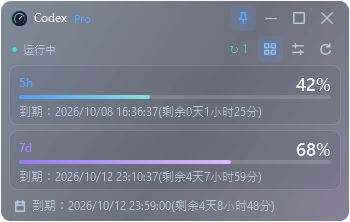
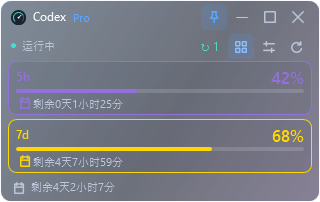
Codex 额度 稳定连接状态并简化剩余时间展示

diff --git a/MainWindow.xaml b/MainWindow.xaml
@@ -3,7 +3,7 @@
         xmlns:x="http://schemas.microsoft.com/winfx/2006/xaml"
         xmlns:shell="clr-namespace:System.Windows.Shell;assembly=PresentationFramework"
         x:Name="WidgetWindow" Title="{Binding Text.WindowTitle}" Icon="pack://application:,,,/CodexQuotaWidget;component/assets/app.ico"
-        Width="350" SizeToContent="Height" MinWidth="320" MinHeight="160"
+        Width="320" SizeToContent="Height" MinWidth="300" MinHeight="145"
         Topmost="True" WindowStyle="None" ResizeMode="CanResize" ShowInTaskbar="True"
         Background="Transparent" UseLayoutRounding="True"
         SourceInitialized="WindowSourceInitialized" StateChanged="WindowStateChanged"
@@ -12,8 +12,8 @@
         <shell:WindowChrome CaptionHeight="34" ResizeBorderThickness="5" GlassFrameThickness="-1" CornerRadius="10" UseAeroCaptionButtons="False" />
     </shell:WindowChrome.WindowChrome>
     <Border x:Name="GlassSurface" Background="{StaticResource OpaqueGlassBrush}" BorderBrush="{StaticResource LineBrush}" BorderThickness="1" CornerRadius="10">
-        <Grid Margin="8,0,8,6">
-            <Grid.RowDefinitions><RowDefinition Height="34" /><RowDefinition Height="30" /><RowDefinition Height="*" /></Grid.RowDefinitions>
+        <Grid Margin="7,0,7,5">
+            <Grid.RowDefinitions><RowDefinition Height="32" /><RowDefinition Height="28" /><RowDefinition Height="*" /></Grid.RowDefinitions>
             <!-- Native chrome owns title dragging, double-click maximize and resize hit testing. -->
             <Grid Grid.Row="0">
                 <Grid.ColumnDefinitions><ColumnDefinition Width="*" /><ColumnDefinition Width="Auto" /></Grid.ColumnDefinitions>
@@ -50,24 +50,24 @@
             <ScrollViewer Grid.Row="2" HorizontalScrollBarVisibility="Disabled" VerticalScrollBarVisibility="Auto" Background="Transparent">
                 <Grid>
                     <StackPanel x:Name="DashboardContent">
-                        <Border Padding="9,5" Margin="0,0,0,5" CornerRadius="8" BorderBrush="{StaticResource LineBrush}" BorderThickness="1" Background="#12132337" Visibility="{Binding FiveHourVisibility}">
+                        <Border Padding="7,4" Margin="0,0,0,4" CornerRadius="8" BorderBrush="{Binding FiveHourToneBrush}" BorderThickness="1" Background="#12132337" Visibility="{Binding FiveHourVisibility}">
                             <StackPanel>
-                                <Grid Height="22"><TextBlock Text="5h" Foreground="{StaticResource AccentBrush}" FontWeight="SemiBold" VerticalAlignment="Center" /><TextBlock Text="{Binding FiveHourPercentText}" HorizontalAlignment="Right" FontSize="18" FontWeight="SemiBold" /></Grid>
-                                <ProgressBar Style="{StaticResource QuotaProgress}" Margin="0,2,0,5" Maximum="100" Value="{Binding FiveHourPercent, Mode=OneWay}" Foreground="{StaticResource HourlyGradient}" />
-                                <TextBlock Text="{Binding FiveHourResetText}" FontSize="12" TextWrapping="Wrap" Foreground="{StaticResource SecondaryTextBrush}" ToolTip="{Binding FiveHourResetText}" />
+                                <Grid Height="21"><TextBlock Text="5h" Foreground="{Binding FiveHourToneBrush}" FontWeight="SemiBold" VerticalAlignment="Center" /><TextBlock Text="{Binding FiveHourPercentText}" Foreground="{Binding FiveHourToneBrush}" HorizontalAlignment="Right" FontSize="17" FontWeight="SemiBold" /></Grid>
+                                <ProgressBar Style="{StaticResource QuotaProgress}" Margin="0,2,0,4" Maximum="100" Value="{Binding FiveHourPercent, Mode=OneWay}" Foreground="{Binding FiveHourToneBrush}" />
+                                <Grid ToolTip="{Binding FiveHourResetTooltip}"><Grid.ColumnDefinitions><ColumnDefinition Width="17" /><ColumnDefinition Width="*" /></Grid.ColumnDefinitions><Path Style="{StaticResource LineIcon}" Stroke="{Binding FiveHourToneBrush}" Data="M5,5 H19 V20 H5 Z M8,3 V7 M16,3 V7 M5,10 H19" /><TextBlock Grid.Column="1" Text="{Binding FiveHourResetText}" AutomationProperties.AutomationId="FiveHourExpiry" AutomationProperties.Name="{Binding FiveHourResetText}" AutomationProperties.HelpText="{Binding FiveHourResetTooltip}" FontSize="11" TextWrapping="Wrap" Foreground="{StaticResource SecondaryTextBrush}" /></Grid>
                             </StackPanel>
                         </Border>
-                        <Border Padding="9,5" Margin="0,0,0,5" CornerRadius="8" BorderBrush="{StaticResource LineBrush}" BorderThickness="1" Background="#141E1938" Visibility="{Binding SevenDayVisibility}">
+                        <Border Padding="7,4" Margin="0,0,0,4" CornerRadius="8" BorderBrush="{Binding SevenDayToneBrush}" BorderThickness="1" Background="#141E1938" Visibility="{Binding SevenDayVisibility}">
                             <StackPanel>
-                                <Grid Height="22"><TextBlock Text="7d" Foreground="{StaticResource WeeklyBrush}" FontWeight="SemiBold" VerticalAlignment="Center" /><TextBlock Text="{Binding SevenDayPercentText}" HorizontalAlignment="Right" FontSize="18" FontWeight="SemiBold" /></Grid>
-                                <ProgressBar Style="{StaticResource QuotaProgress}" Margin="0,2,0,5" Maximum="100" Value="{Binding SevenDayPercent, Mode=OneWay}" Foreground="{StaticResource WeeklyGradient}" />
-                                <TextBlock Text="{Binding SevenDayResetText}" FontSize="12" TextWrapping="Wrap" Foreground="{StaticResource SecondaryTextBrush}" ToolTip="{Binding SevenDayResetText}" />
+                                <Grid Height="21"><TextBlock Text="7d" Foreground="{Binding SevenDayToneBrush}" FontWeight="SemiBold" VerticalAlignment="Center" /><TextBlock Text="{Binding SevenDayPercentText}" Foreground="{Binding SevenDayToneBrush}" HorizontalAlignment="Right" FontSize="17" FontWeight="SemiBold" /></Grid>
+                                <ProgressBar Style="{StaticResource QuotaProgress}" Margin="0,2,0,4" Maximum="100" Value="{Binding SevenDayPercent, Mode=OneWay}" Foreground="{Binding SevenDayToneBrush}" />
+                                <Grid ToolTip="{Binding SevenDayResetTooltip}"><Grid.ColumnDefinitions><ColumnDefinition Width="17" /><ColumnDefinition Width="*" /></Grid.ColumnDefinitions><Path Style="{StaticResource LineIcon}" Stroke="{Binding SevenDayToneBrush}" Data="M5,5 H19 V20 H5 Z M8,3 V7 M16,3 V7 M5,10 H19" /><TextBlock Grid.Column="1" Text="{Binding SevenDayResetText}" AutomationProperties.AutomationId="SevenDayExpiry" AutomationProperties.Name="{Binding SevenDayResetText}" AutomationProperties.HelpText="{Binding SevenDayResetTooltip}" FontSize="11" TextWrapping="Wrap" Foreground="{StaticResource SecondaryTextBrush}" /></Grid>
                             </StackPanel>
                         </Border>
                         <Grid Margin="3,3,3,2" ToolTip="{Binding StatusText}">
                             <Grid.ColumnDefinitions><ColumnDefinition Width="20" /><ColumnDefinition Width="*" /></Grid.ColumnDefinitions>
                             <Path Style="{StaticResource LineIcon}" Stroke="{StaticResource SecondaryTextBrush}" Data="M5,5 H19 V20 H5 Z M8,3 V7 M16,3 V7 M5,10 H19" VerticalAlignment="Top" Margin="0,2,4,0" />
-                            <TextBlock Grid.Column="1" Text="{Binding MembershipText}" TextWrapping="Wrap" FontSize="12" Foreground="{StaticResource SecondaryTextBrush}" ToolTip="{Binding MembershipText}" />
+                            <TextBlock Grid.Column="1" Text="{Binding MembershipText}" AutomationProperties.AutomationId="MembershipExpiry" AutomationProperties.HelpText="{Binding MembershipTooltipText}" TextWrapping="Wrap" FontSize="11" Foreground="{StaticResource SecondaryTextBrush}" ToolTip="{Binding MembershipTooltipText}" />
                         </Grid>
                     </StackPanel>
                     <Grid x:Name="SettingsContent" Visibility="Collapsed" Margin="4,6,4,4">

diff --git a/ViewModels/QuotaViewModel.cs b/ViewModels/QuotaViewModel.cs
@@ -24,6 +24,7 @@ public sealed class QuotaViewModel : INotifyPropertyChanged, IDisposable
     private AppLanguage language;
     private bool refreshing;
     private bool disposed;
+    private int consecutiveFailures;
 
     /// <summary>
     /// 初始化真实 Codex 提供器；只有显式传入演示提供器时才使用静态演示数据。
@@ -47,28 +48,45 @@ public sealed class QuotaViewModel : INotifyPropertyChanged, IDisposable
     public double FiveHourPercent => snapshot?.FiveHour?.Percent ?? 0;
     public string FiveHourPercentText => FormatPercent(snapshot?.FiveHour);
     public string FiveHourResetText => FormatRemaining(snapshot?.FiveHour?.ResetAt);
+    public string FiveHourResetTooltip => FormatExpiryTooltip(snapshot?.FiveHour?.ResetAt);
+    public System.Windows.Media.Brush FiveHourToneBrush => GetQuotaToneBrush(snapshot?.FiveHour);
     public double SevenDayPercent => snapshot?.SevenDay?.Percent ?? 0;
     public string SevenDayPercentText => FormatPercent(snapshot?.SevenDay);
     public string SevenDayResetText => FormatRemaining(snapshot?.SevenDay?.ResetAt);
+    public string SevenDayResetTooltip => FormatExpiryTooltip(snapshot?.SevenDay?.ResetAt);
+    public System.Windows.Media.Brush SevenDayToneBrush => GetQuotaToneBrush(snapshot?.SevenDay);
     public string PlanName => snapshot?.PlanName is { Length: > 0 } plan ? plan : "--";
     public LocalizedText Text => LocalizedTextProvider.Get(language);
-    public string MembershipText => errorMessage is not null
-        ? LocalizeError(errorMessage)
+    public string MembershipText => HasStableError
+        ? LocalizeError(errorMessage!)
         : GetMembershipExpiry() is { } expiry
-        ? FormatMembershipExpiry(expiry, DateTimeOffset.Now, language)
+        ? FormatRemainingCountdown(expiry, DateTimeOffset.Now, language)
         : snapshot is null ? Text.LoadingMembership : Text.MembershipUnknown;
+    public string MembershipTooltipText => HasStableError
+        ? StatusText
+        : GetMembershipExpiry() is { } expiry
+        ? FormatExpiryCountdown(expiry, DateTimeOffset.Now, language)
+        : MembershipText;
     public string ResetCreditsText => snapshot?.ResetCredits is { } count ? count.ToString() : "--";
     public string ResetCreditsDisplayText => $"{Text.ResetCredits}: {ResetCreditsText}";
     public string ErrorText => errorDetail;
     public bool CanRefresh => !refreshing && !disposed;
-    public string ConnectionText => errorMessage is not null ? (language == AppLanguage.English ? "Offline" : "连接异常")
-        : refreshing ? (language == AppLanguage.English ? "Updating" : "更新中") : Text.LiveStatus;
-    public System.Windows.Media.Brush StatusBrush => errorMessage is not null ? System.Windows.Media.Brushes.Salmon
-        : refreshing ? System.Windows.Media.Brushes.LightSkyBlue : System.Windows.Media.Brushes.Turquoise;
+    public string ConnectionText => refreshing
+        ? (language == AppLanguage.English ? "Updating" : "更新中")
+        : HasStableError
+        ? (language == AppLanguage.English ? "Offline" : "连接异常")
+        : errorMessage is not null
+        ? (language == AppLanguage.English ? "Connecting" : "连接中")
+        : Text.LiveStatus;
+    public System.Windows.Media.Brush StatusBrush => HasStableError ? System.Windows.Media.Brushes.Salmon
+        : errorMessage is not null || refreshing ? System.Windows.Media.Brushes.LightSkyBlue : System.Windows.Media.Brushes.Turquoise;
     public int RefreshIntervalSeconds { get; private set; }
-    public string StatusText => errorMessage is not null
+    public string StatusText => HasStableError
         ? LocalizeErrorDetail(errorDetail) + (snapshot is null ? "" : language == AppLanguage.English ? " The last successful quota remains visible." : " 当前额度保留上次成功结果。")
+        : errorMessage is not null ? (language == AppLanguage.English ? "Retrying the quota connection…" : "正在重试额度连接…")
         : refreshing ? Text.RefreshingQuota : $"{Text.RefreshInterval}: {RefreshIntervalSeconds} {Text.Seconds} {Text.AutoRefreshSuffix}";
+
+    private bool HasStableError => errorMessage is not null && consecutiveFailures >= 2;
 
     /// <summary>更新自动刷新间隔并立即作用于后续计时，不启动并行读取。</summary>
     public void SetRefreshIntervalSeconds(int seconds)
@@ -100,8 +118,11 @@ public sealed class QuotaViewModel : INotifyPropertyChanged, IDisposable
             OnPropertyChanged(nameof(Text));
             OnPropertyChanged(nameof(FiveHourResetText));
             OnPropertyChanged(nameof(SevenDayResetText));
+            OnPropertyChanged(nameof(FiveHourResetTooltip));
+            OnPropertyChanged(nameof(SevenDayResetTooltip));
             OnPropertyChanged(nameof(ResetCreditsDisplayText));
             OnPropertyChanged(nameof(ConnectionText));
+            OnPropertyChanged(nameof(MembershipTooltipText));
         }
 
         OnPropertyChanged(nameof(MembershipText));
@@ -159,6 +180,7 @@ public sealed class QuotaViewModel : INotifyPropertyChanged, IDisposable
                 snapshot = await quotaProvider.GetSnapshotAsync(lifetime.Token);
                 errorMessage = null;
                 errorDetail = string.Empty;
+                consecutiveFailures = 0;
             }
             catch (OperationCanceledException) when (disposed)
             {
@@ -168,16 +190,19 @@ public sealed class QuotaViewModel : INotifyPropertyChanged, IDisposable
             {
                 errorMessage = exception.Message;
                 errorDetail = exception.Detail;
+                consecutiveFailures++;
             }
             catch (OperationCanceledException)
             {
                 errorMessage = "读取超时";
                 errorDetail = "额度读取被取消或超时，组件会自动重试。";
+                consecutiveFailures++;
             }
             catch (Exception exception) when (exception is InvalidOperationException or IOException or JsonException or FormatException or OverflowException or Win32Exception or UnauthorizedAccessException or ArgumentException or System.Collections.Generic.KeyNotFoundException)
             {
                 errorMessage = "额度读取失败";
                 errorDetail = "Codex 启动、通信或响应解析失败，请检查安装和网络后重试。";
+                consecutiveFailures++;
             }
         }
         finally
@@ -203,7 +228,10 @@ public sealed class QuotaViewModel : INotifyPropertyChanged, IDisposable
     {
         OnPropertyChanged(nameof(FiveHourResetText));
         OnPropertyChanged(nameof(SevenDayResetText));
+        OnPropertyChanged(nameof(FiveHourResetTooltip));
+        OnPropertyChanged(nameof(SevenDayResetTooltip));
         OnPropertyChanged(nameof(MembershipText));
+        OnPropertyChanged(nameof(MembershipTooltipText));
         _ = RefreshAsync();
     }
 
@@ -225,12 +253,36 @@ public sealed class QuotaViewModel : INotifyPropertyChanged, IDisposable
         return quotaWindow is null ? "--" : $"{quotaWindow.Percent:0}%";
     }
 
-    /// <summary>将额度窗口重置时间显示为绝对到期时间和剩余天、时、分。</summary>
+    /// <summary>将额度窗口重置时间压缩为剩余天、时、分；完整时间由悬浮提示提供。</summary>
     private string FormatRemaining(DateTimeOffset? resetAt)
     {
         return resetAt is null
             ? "--"
-            : FormatExpiryCountdown(resetAt.Value, DateTimeOffset.Now, language);
+            : FormatRemainingCountdown(resetAt.Value, DateTimeOffset.Now, language);
+    }
+
+    /// <summary>返回完整到期时间悬浮提示；未知时间保持短占位符而不伪造日期。</summary>
+    private string FormatExpiryTooltip(DateTimeOffset? expiry)
+    {
+        return expiry is null ? "--" : FormatExpiryCountdown(expiry.Value, DateTimeOffset.Now, language);
+    }
+
+    /// <summary>按剩余百分比选择 25% 区间颜色，保持进度颜色同时表达额度状态。</summary>
+    internal static string GetQuotaTone(double percent)
+    {
+        return percent < 25 ? "Green" : percent < 50 ? "Purple" : percent < 75 ? "Yellow" : "Red";
+    }
+
+    /// <summary>将额度窗口映射为可绑定画刷；缺失窗口使用中性灰色，避免伪造额度状态。</summary>
+    private static System.Windows.Media.Brush GetQuotaToneBrush(QuotaWindow? quotaWindow)
+    {
+        return quotaWindow is null ? System.Windows.Media.Brushes.SlateGray : GetQuotaTone(quotaWindow.Percent) switch
+        {
+            "Green"  => System.Windows.Media.Brushes.LimeGreen,
+            "Purple" => System.Windows.Media.Brushes.MediumPurple,
+            "Yellow" => System.Windows.Media.Brushes.Gold,
+            _        => System.Windows.Media.Brushes.Tomato
+        };
     }
 
     /// <summary>将提供器预定义的错误标题映射为当前界面语言，避免英语界面夹杂中文错误名称。</summary>
@@ -294,6 +346,21 @@ public sealed class QuotaViewModel : INotifyPropertyChanged, IDisposable
     public static string FormatMembershipExpiry(DateTimeOffset expiry, DateTimeOffset now, AppLanguage language)
     {
         return FormatExpiryCountdown(expiry, now, language);
+    }
+
+    /// <summary>只显示剩余时间，不重复展示日期；用于卡片正文的低认知负担展示。</summary>
+    public static string FormatRemainingCountdown(DateTimeOffset expiry, DateTimeOffset now, AppLanguage language)
+    {
+        var remaining = expiry.ToLocalTime() - now.ToLocalTime();
+        if (remaining <= TimeSpan.Zero)
+        {
+            return language == AppLanguage.English ? "Expired" : "已到期";
+        }
+
+        var days = (int) remaining.TotalDays;
+        return language == AppLanguage.English
+            ? $"{days}d {remaining.Hours}h {remaining.Minutes}m left"
+            : $"剩余{days}天{remaining.Hours}小时{remaining.Minutes}分";
     }
 
     /// <summary>

diff --git a/tests/QuotaChecks/Program.cs b/tests/QuotaChecks/Program.cs
@@ -73,7 +73,7 @@ internal static class Program
             window.Show();
             window.Dispatcher.Invoke(() => { }, DispatcherPriority.ApplicationIdle);
             window.UpdateLayout();
-            Check(window.ActualWidth == 350 && window.ActualHeight <= 280, "英文主界面保持紧凑尺寸");
+            Check(window.ActualWidth == 320 && window.ActualHeight <= 280, "英文主界面保持紧凑尺寸");
             var output = Path.Combine(Directory.GetCurrentDirectory(), "artifacts", "ui-test");
             Directory.CreateDirectory(output);
             SaveWindowRender(window, Path.Combine(output, "english-dashboard.png"));
@@ -156,10 +156,13 @@ internal static class Program
         var expectedEnglish = $"Expires: {localExpiry:yyyy/MM/dd HH:mm:ss} ({(int)remaining.TotalDays}d {remaining.Hours}h {remaining.Minutes}m left)";
         Check(QuotaViewModel.FormatMembershipExpiry(expiry, now, AppLanguage.SimplifiedChinese)
             == expectedChinese, "中文会员到期格式精确匹配");
+        Check(QuotaViewModel.FormatRemainingCountdown(expiry, now, AppLanguage.SimplifiedChinese)
+            == "剩余0天0小时16分", "中文会员正文只显示剩余时间");
         Check(QuotaViewModel.FormatExpiryCountdown(expiry, now, AppLanguage.SimplifiedChinese)
             == expectedChinese, "中文额度条到期格式精确匹配");
         Check(QuotaViewModel.FormatMembershipExpiry(expiry, now, AppLanguage.English)
             == expectedEnglish, "英文会员到期格式正确");
+        Check(QuotaViewModel.GetQuotaTone(10) == "Green" && QuotaViewModel.GetQuotaTone(25) == "Purple" && QuotaViewModel.GetQuotaTone(50) == "Yellow" && QuotaViewModel.GetQuotaTone(75) == "Red", "额度颜色按25%区间切换");
         Check(LocalizedTextProvider.Get(AppLanguage.English).SettingsTab == "Settings", "英文设置页文本可用");
     }
 
@@ -235,11 +238,13 @@ internal static class Program
         var viewModel = new QuotaViewModel(provider, refreshIntervalSeconds: refreshIntervalSeconds);
         var frame = new DispatcherFrame();
         var updates = 0;
+        var transientErrorWasShown = false;
         Exception? failure = null;
         var started = DateTimeOffset.Now;
         viewModel.PropertyChanged += (_, e) =>
         {
             if (e.PropertyName != string.Empty) return;
+            transientErrorWasShown |= viewModel.ErrorText.Length > 0 && viewModel.ConnectionText == "连接异常";
             if (viewModel.ErrorText.Length == 0)
             {
                 updates++;
@@ -256,6 +261,7 @@ internal static class Program
                 Check(viewModel.SevenDayVisibility == Visibility.Visible, "真实绑定显示周额度");
                 Check(updates >= 2, "观察到两次自动成功刷新");
                 if (!live) Check(((CountingProvider)provider).Calls == 3, "启动和两次自动刷新恰好三次调用");
+                if (!live) Check(!transientErrorWasShown, "单次读取失败不显示连接异常");
                 if (!live)
                 {
                     // 离线提供器同步完成；真实网络读取可能恰好处于下一次刷新，不能假定它空闲。

diff --git a/docs/ui/2026-10-08-glass-mini.md b/docs/ui/2026-10-08-glass-mini.md
@@ -19,10 +19,12 @@
 - 深蓝至灰紫的低饱和渐变；原生 Desktop Acrylic 背景模糊，仅背景透明，正文不降低透明度。
 - 标题栏 34 DIP，按钮 28 DIP，线框图标有工具提示及可访问名称；支持 hover、按下、禁用、键盘焦点。
 - 默认置顶；图钉高亮与实际状态绑定。置顶选择仅在当前会话生效。
+- 单次额度读取失败只显示连接中/重试，不立即显示异常；连续两次失败才进入红色异常状态，成功后立即恢复运行中。
 - 标题可拖动、双击最大化；四边可调整大小。最大化按当前屏幕工作区计算，避免覆盖任务栏。
 - 最小化保留任务栏入口；关闭沿用隐藏到托盘的语义，完全退出用托盘“退出”。
-- 主界面 350×222、设置 350×177（本机 100% 缩放，双额度演示数据）；单额度真实账号会更矮。最小尺寸 320×160。
-- 正文日期 12 DIP，额度比例 18 DIP。窄窗口换行/纵向滚动，不使用横向滚动或继续缩小文字。
+- 主界面默认 320 像素宽（本机 100% 缩放，双额度演示数据）；单额度真实账号会更矮。最小宽度 300。
+- 日期完成时间改为日历图标悬浮提示，正文只显示剩余天、小时、分钟；额度比例 17 DIP，窄窗口换行/纵向滚动。
+- 剩余百分比区间按 0–25%、25–50%、50–75%、75–100% 使用绿、紫、黄、红色，应用于卡片边框、标签、百分比和进度条。
 - 导航自动适配高度；用户主动缩放后保留其尺寸，不强制跳回默认。
 - 加载中有文字状态且禁用重复刷新；异常状态保留最后成功额度及诊断提示；不存在的额度卡片隐藏。
 
@@ -53,7 +55,7 @@ powershell.exe -NoLogo -NoProfile -ExecutionPolicy Bypass -File scripts/Test-UiS
 - 正常 Close 隐藏窗口，同一窗口可再次 Show；验收参数下 Close 能结束测试进程。
 - PowerShell 语法/UTF-8 BOM 检查通过；git diff --check 无空白问题。
 
-截图输出在忽略目录 artifacts/ui-test：dashboard.png、settings.png、desktop-glass.png、narrow.png、wide.png、english-dashboard.png、english-settings.png。前两者和英文图为 WPF 渲染，desktop-glass.png 为本机桌面合成截图；演示数据不代表真实账号。
+截图输出在忽略目录 artifacts/ui-test：dashboard.png、settings.png、desktop-glass.png、narrow.png、wide.png、english-dashboard.png、english-settings.png。截图同时检查剩余时间简化、图标悬浮提示、颜色区间和连接状态；演示数据不代表真实账号。
 
 ## 边界与后续验收
 

diff --git a/README.md b/README.md
@@ -10,17 +10,19 @@ Windows 桌面额度小组件，用紧凑的玻璃渐变界面显示当前 Codex
 
 ## 功能
 
-- 显示 5 小时和 7 天额度窗口、剩余百分比以及各自的重置时间。
-- 显示会员/订阅到期时间和剩余天、小时、分钟；可用重置次数显示在右侧徽标中。
+- 显示 5 小时和 7 天额度窗口、剩余百分比以及剩余时间；完成时间收在日历图标的悬浮提示中。
+- 会员/订阅区域只展示剩余天、小时、分钟，鼠标悬停后显示完整到期时间；可用重置次数显示在右侧徽标中。
+- 额度颜色按剩余百分比每 25% 切换为绿、紫、黄、红，颜色同时应用于标签、百分比、进度条和卡片边框。
 - 只使用明确命名的会员到期字段；服务端未返回时，从本机 Codex 登录令牌的订阅声明补齐，不会把额度重置时间误当成会员到期时间。
 - 使用本机 Codex app-server 的只读 JSON-RPC 请求读取数据，不修改账号、额度或登录状态。
 - 每 10 秒自动刷新，刷新请求不会并行叠加；也可以在设置页选择 5、10、30、60 或 120 秒，或手动刷新。
 - 支持简体中文和 English；语言、刷新间隔保存在当前 Windows 用户配置中。
-- 默认宽度 350 像素，支持自由调整大小；自定义标题栏提供最小化、最大化/还原、置顶切换和关闭，默认置顶。关闭隐藏到托盘，完全退出使用托盘菜单。
+- 默认宽度 320 像素，支持自由调整大小；自定义标题栏提供最小化、最大化/还原、置顶切换和关闭，默认置顶。关闭隐藏到托盘，完全退出使用托盘菜单。
 - Windows 11 22H2 及以上支持 Acrylic 背景模糊与渐变；旧系统及高对比度环境回退到不透明背景。
 - 托盘菜单支持打开主界面和退出小组件，双击托盘图标也会打开主界面。
 - 优先定位 Codex 桌面版自带的原生 `codex.exe`，兼容 `bin/<版本散列>/codex.exe` 路径；找不到时再尝试 PATH 中的 CLI。
 - 登录、安装、网络和协议错误会转换为可操作的提示，并保留上一次成功的额度结果。
+- 首次读取的瞬时失败只显示连接中并自动重试；连续两次失败后才显示连接异常，避免启动阶段的误报闪烁。
 
 ## 数据来源与登录要求
 
